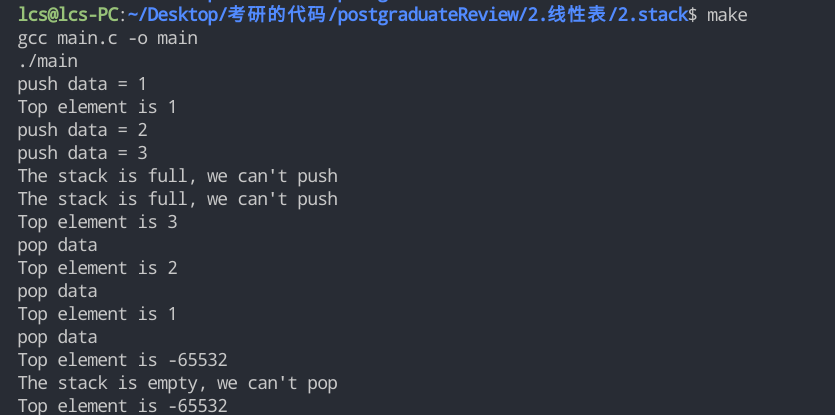
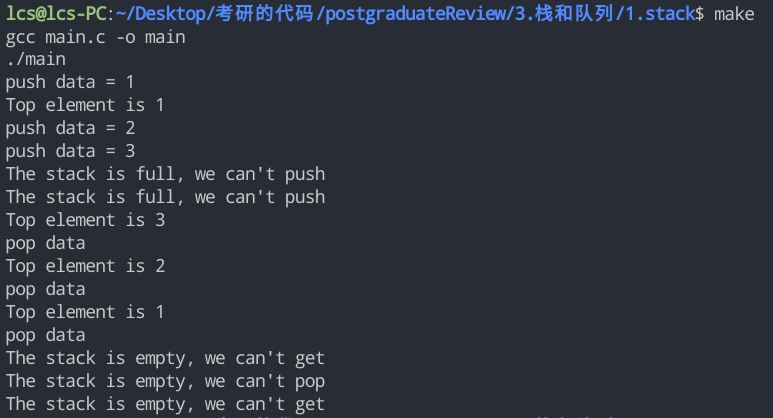
ok啦

Changed region(s): [[0.0, 0.0, 0.9935, 1.0]]

diff --git a/3.栈和队列/1.stack/main.c b/3.栈和队列/1.stack/main.c
@@ -1,11 +1,16 @@
 #include <stdio.h>
 
-
 #define LEN 3
 #define STACK_NULL -65532
 typedef int DataType;
 
-#define PRINT_TOP_ELEMENT(top_element) printf("Top element is %d\n", top_element)
+#define PRINT_TOP_ELEMENT(top_element)                     \
+    {                                                      \
+        if (top_element != STACK_NULL)                     \
+            printf("Top element is %d\n", top_element);    \
+        else                                               \
+            printf("The stack is empty, we can\'t get\n"); \
+    }
 
 typedef struct Stack
 {
@@ -41,8 +46,8 @@ Stack push(Stack stack, DataType data)
     if (isFull(stack) == False)
     {
         stack.top++;
-        stack.data[stack.top] = data;  
-        printf("push data = %d\n", data);  
+        stack.data[stack.top] = data;
+        printf("push data = %d\n", data);
     }
     else
     {
@@ -56,18 +61,18 @@ Stack pop(Stack stack)
     if (isEmpty(stack) == False)
     {
         printf("pop data\n");
-        stack.top--;  
+        stack.top--;
     }
     else
     {
         printf("The stack is empty, we can\'t pop\n");
-    } 
+    }
     return stack;
 }
 
 DataType getTop(Stack stack)
 {
-    if(stack.top != -1)
+    if (stack.top != -1)
         return stack.data[stack.top];
     return STACK_NULL;
 }

diff --git a/3.栈和队列/1.stack/README.md b/3.栈和队列/1.stack/README.md
@@ -59,7 +59,7 @@ int main()
 or
 
 ```
-lcs@lcs-PC:~/Desktop/考研的代码/postgraduateReview/2.线性表/2.stack$ make
+lcs@lcs-PC:~/Desktop/考研的代码/postgraduateReview/3.栈和队列/1.stack$ make
 gcc main.c -o main
 ./main
 push data = 1
@@ -82,7 +82,7 @@ Top element is -65532
 我定义的栈的大小是LEN = 3，这意味着如果我push了3次之后，就不能继续push了，会提示你栈满了才对。对应的程序是在这边。
 
 ```
-lcs@lcs-PC:~/Desktop/考研的代码/postgraduateReview/2.线性表/2.stack$ make
+lcs@lcs-PC:~/Desktop/考研的代码/postgraduateReview/3.栈和队列/1.stack$ make
 gcc main.c -o main
 ./main
 push data = 1                        -> 第1次push了数据1
